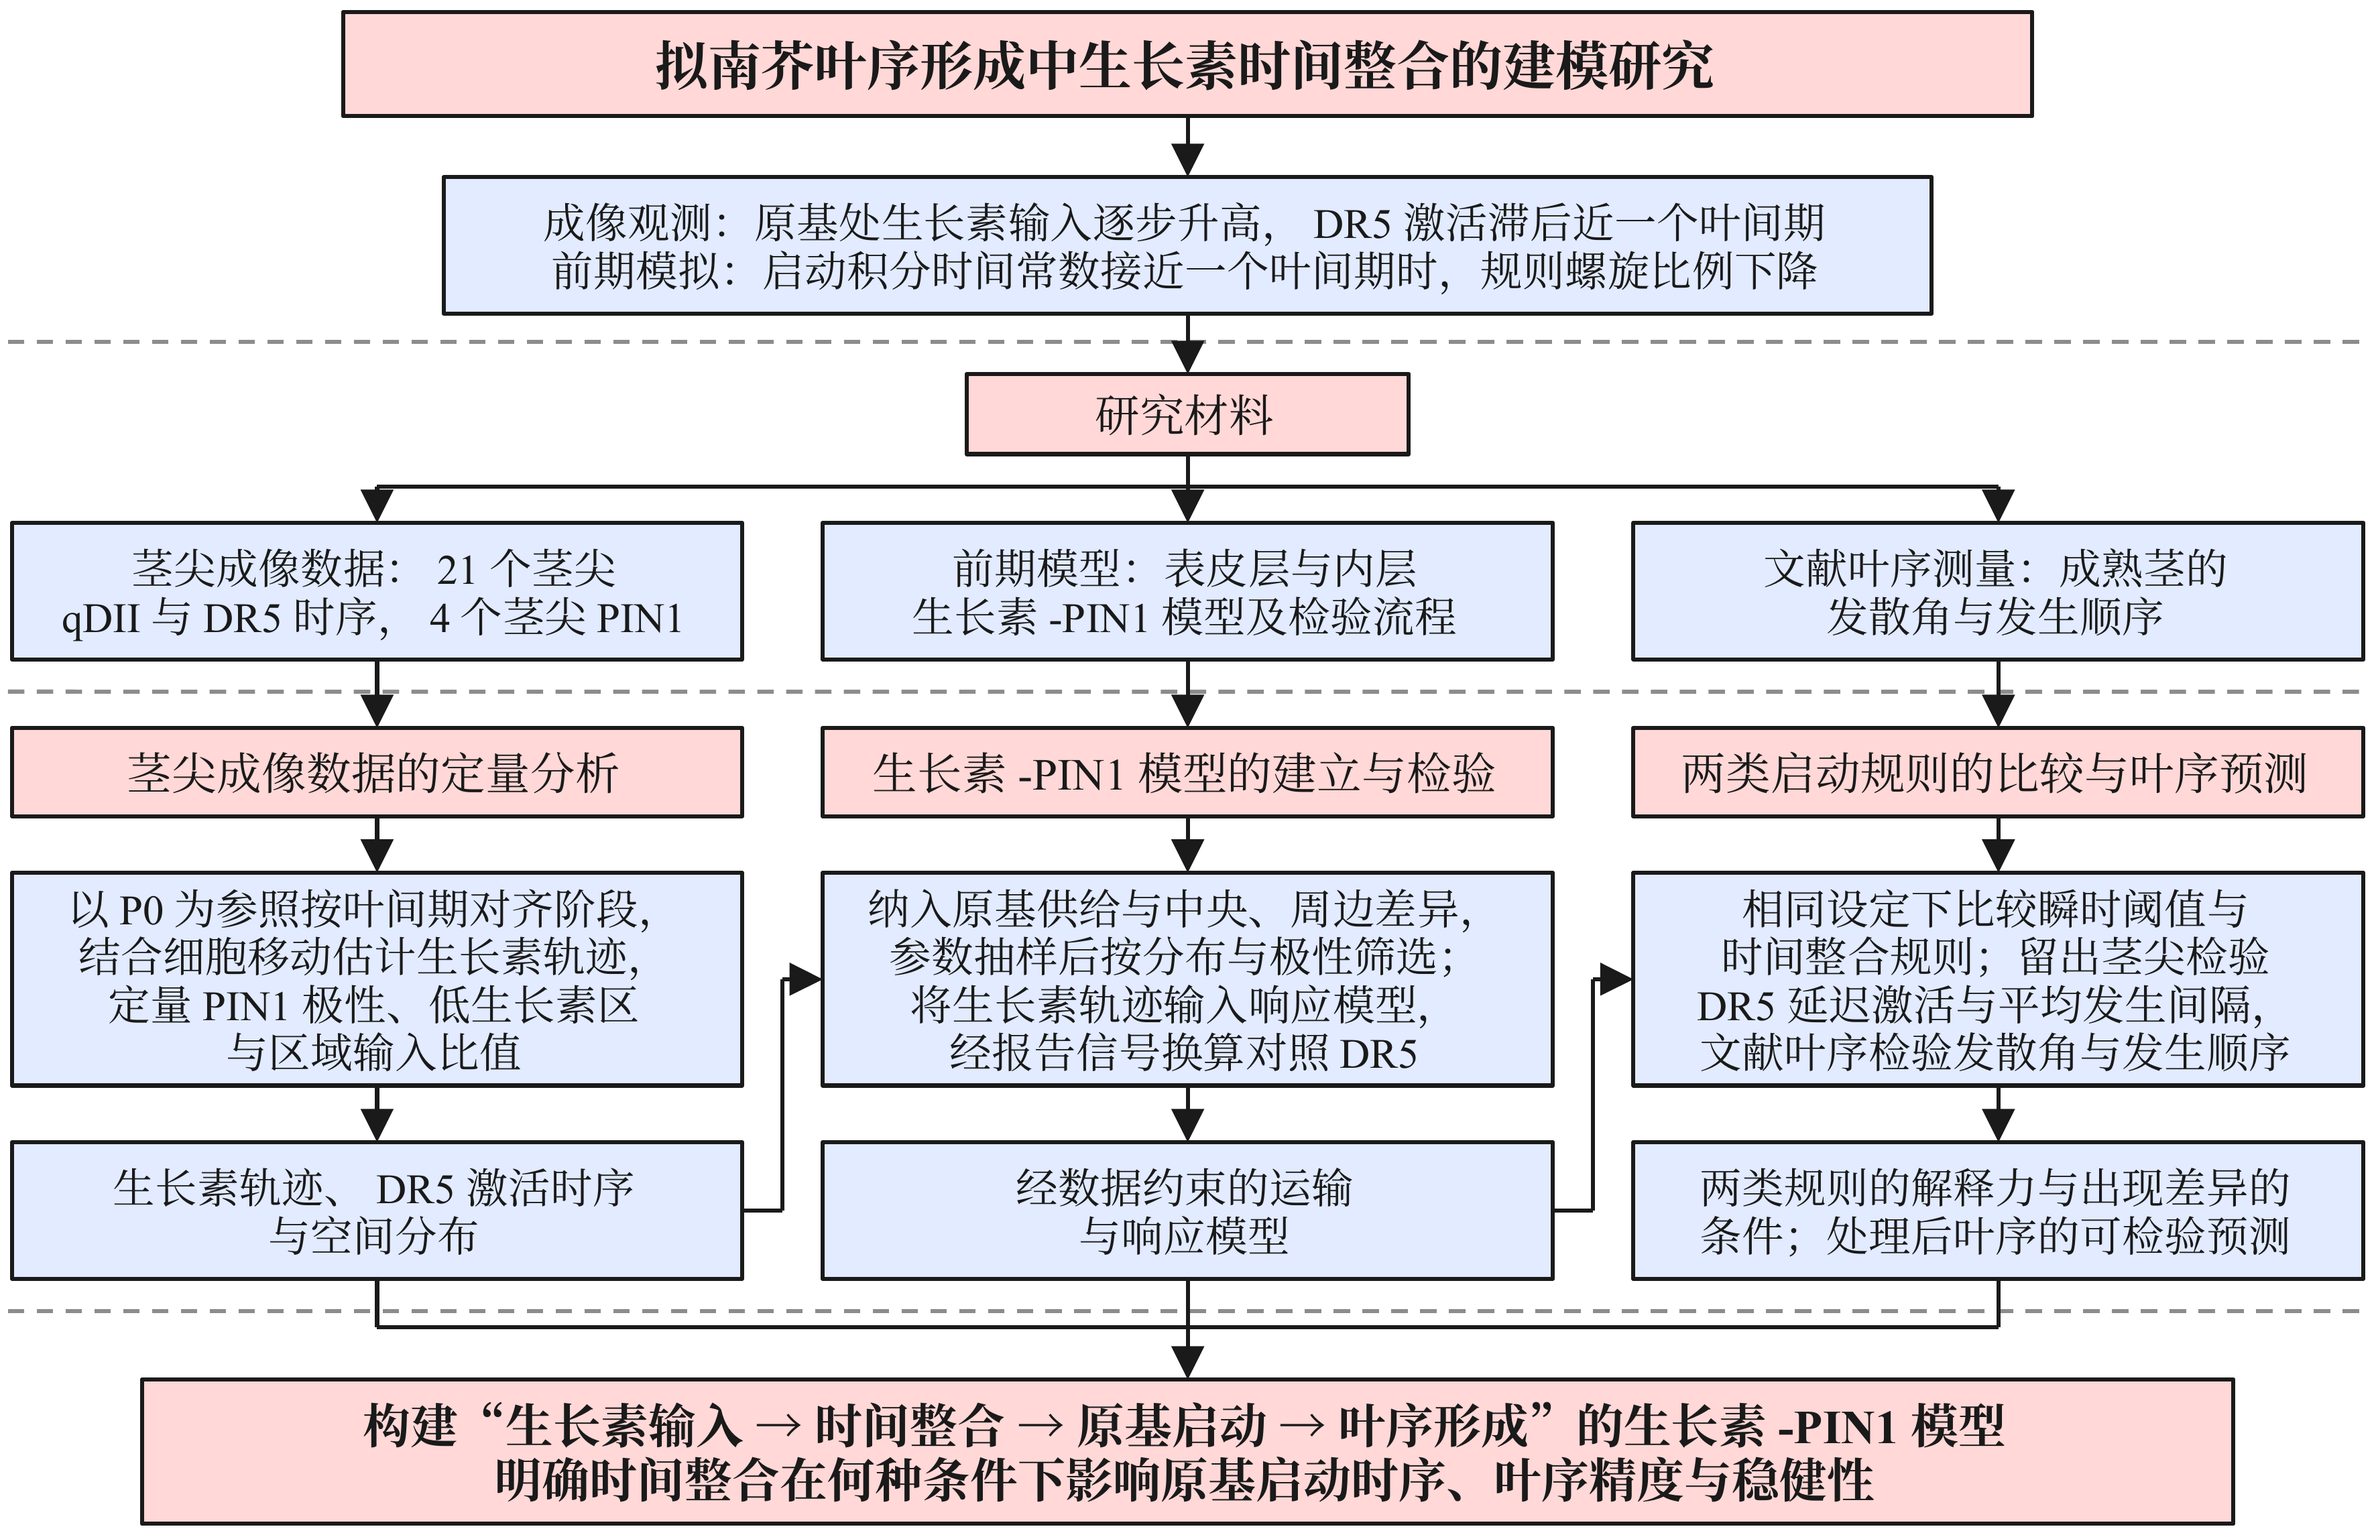
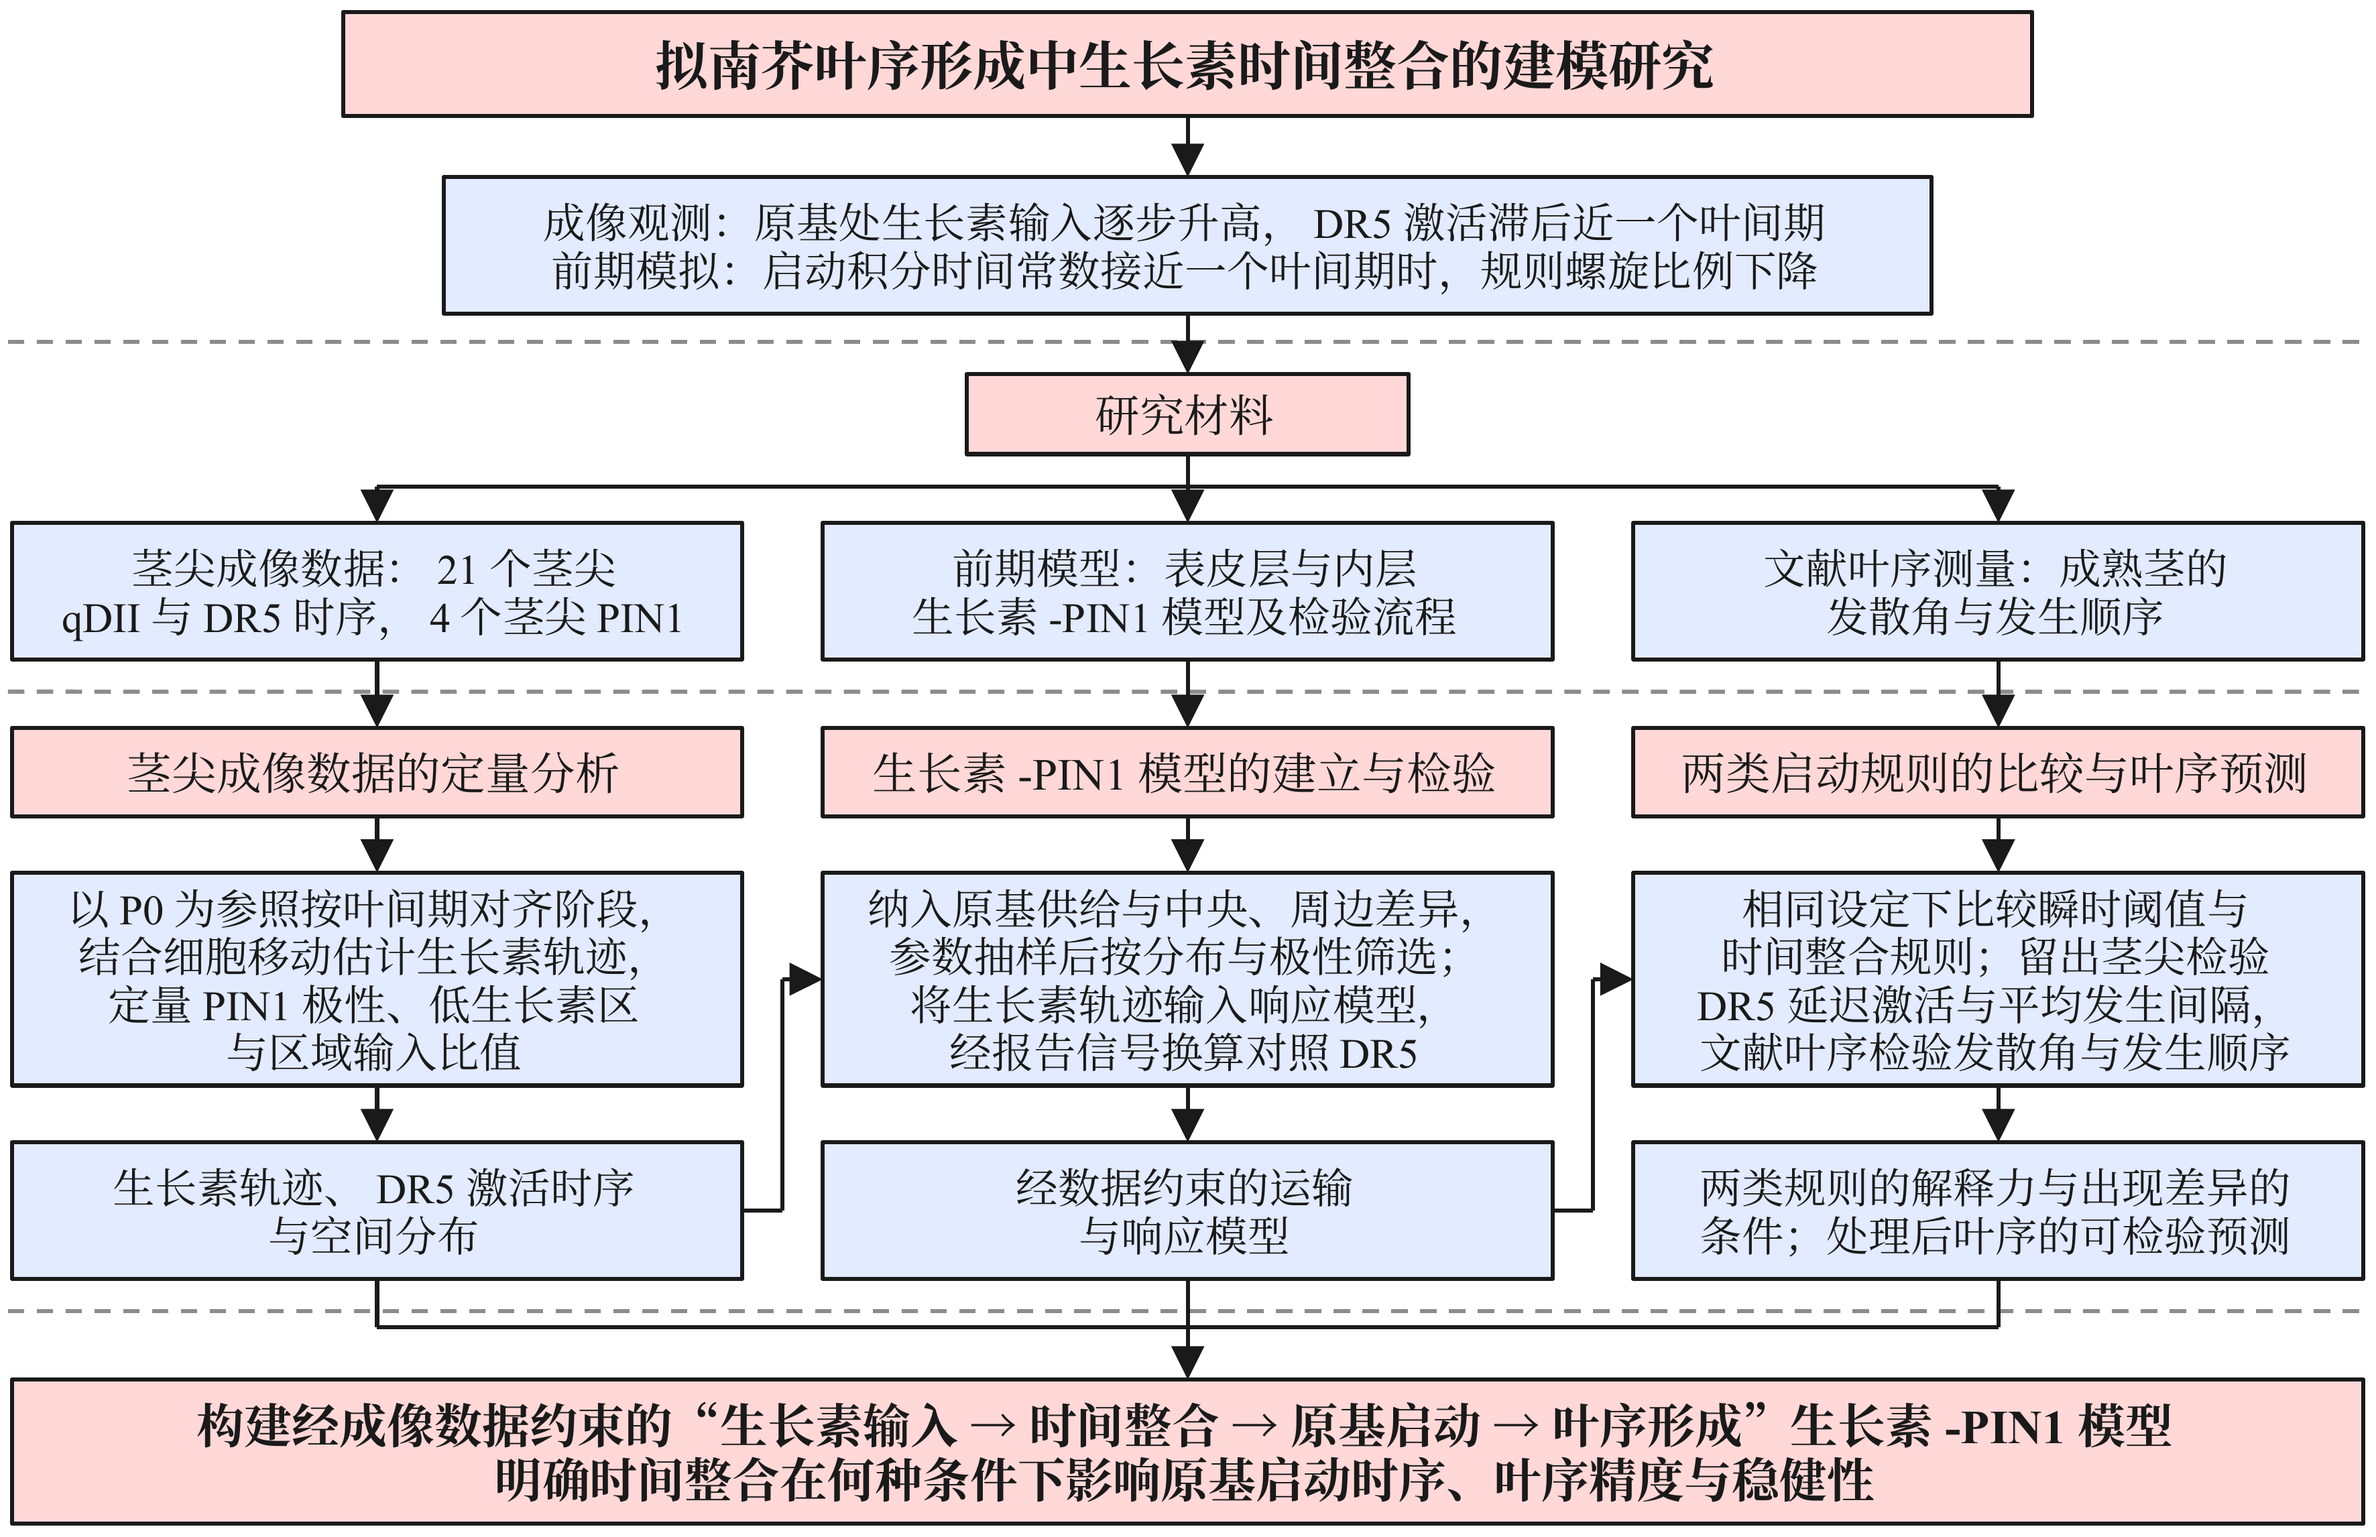
Fig. 2-1: model box names the imaging-data constraint
Claude-Session: https://claude.ai/code/session_01BHCDdTyVHVBXyaT1pkArZu

Changed region(s): [[0.0931, 0.898, 1.0, 1.0], [0.0, 0.898, 0.0621, 1.0]]

diff --git a/figures/prior_work/ppt/roadmap.js b/figures/prior_work/ppt/roadmap.js
@@ -106,7 +106,7 @@ cx.forEach((c) => seg(c, y, c, bus2));
 seg(cx[0], bus2, cx[2], bus2);
 y = bus2 + 0.13;
 seg(CX, bus2, CX, y, true);
-box(CX - 2.6, y, 5.2, H - 0.03 - y, lines("构建“生长素输入 → 时间整合 → 原基启动 → 叶序形成”的生长素-PIN1模型",
+box(M, y, W - 2 * M, H - 0.03 - y, lines("构建经成像数据约束的“生长素输入 → 时间整合 → 原基启动 → 叶序形成”生长素-PIN1模型",
                                          "明确时间整合在何种条件下影响原基启动时序、叶序精度与稳健性"),
     { fs: FS_C, bold: true, fill: PINK, name: "model" });
 console.log("bottom box top", y.toFixed(3), "height", (H - 0.03 - y).toFixed(3));
